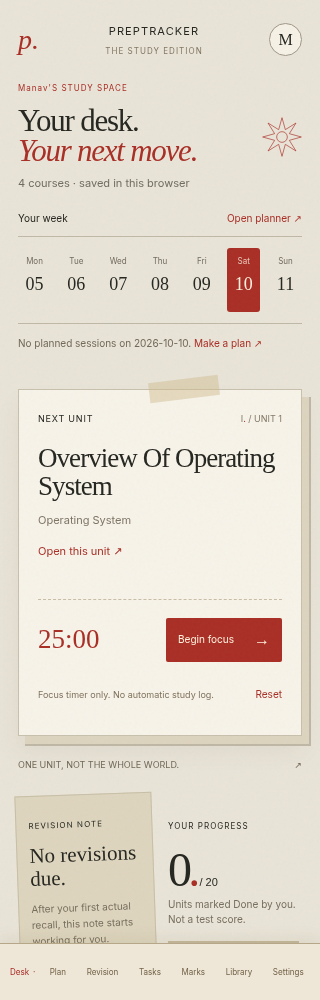
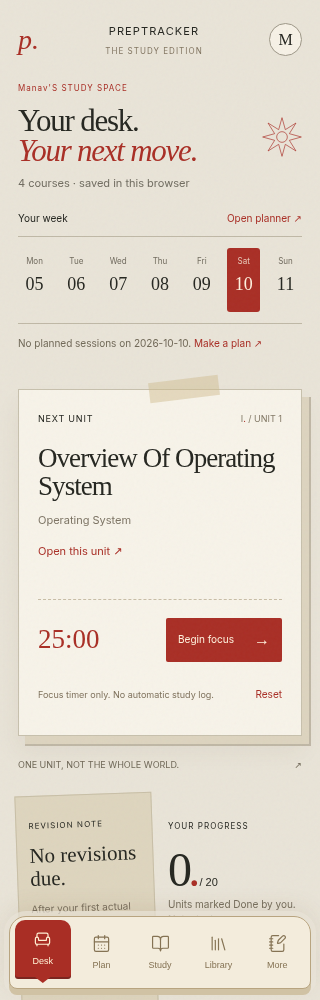
Design mobile navigation as a paper dock and turn-to drawer

Changed region(s): [[0.0, 0.899, 0.9688, 1.0], [0.9688, 0.93, 1.0, 0.961]]

diff --git a/edition-nav.css b/edition-nav.css
@@ -1,4 +1,5 @@
-.edition-nav{max-width:1320px;margin:auto;display:flex;justify-content:space-between;align-items:center;gap:30px;padding:22px 35px;border-bottom:1px solid #bcad90;color:#302c23;background:#e9e4d8}.edition-nav .edition-nav-brand{font:italic 32px Georgia;color:#a92e25;display:flex;align-items:center;gap:18px}.edition-nav-brand>span{font:9px Arial;letter-spacing:.12em;color:#675b45}.edition-nav-brand small{display:block;font-size:7px;letter-spacing:.1em;margin-top:5px;color:#928061}.edition-nav>div{display:flex;align-items:center;gap:23px}.edition-nav>div>a{font-size:10px;color:#746347;min-height:44px;display:flex;align-items:center;gap:4px;white-space:nowrap}.edition-nav>div>a>span{color:transparent}.edition-nav>div>a[aria-current]{color:#a92e25}.edition-nav>div>a[aria-current]>span{color:#a92e25}.edition-nav a:focus-visible{outline:2px solid #a92e25;outline-offset:3px}
-@media(max-width:899px){.edition-nav{padding:0;border:0;max-width:none}.edition-nav .edition-nav-brand{display:none}.edition-nav>div{position:fixed;z-index:50;left:0;right:0;bottom:0;padding:8px 14px max(8px,env(safe-area-inset-bottom));gap:0;justify-content:space-between;border-top:1px solid #b6a789;background:#eee7d8;box-shadow:0 -5px 14px #6a542314;overflow-x:auto}.edition-nav>div>a{padding:0 7px;font-size:9px;min-height:44px;justify-content:center}.edition-nav.setup-nav>div>a{flex:1;font-size:11px}.map-page,.notebook-page,.desk-page,.library-page{padding-bottom:68px}}
-@media(max-width:350px){.edition-nav>div{padding:6px 6px}.edition-nav>div>a{font-size:8px;padding:0 4px}}
-@media print{.edition-nav{display:none!important}}
+.edition-nav{max-width:1320px;margin:auto;display:flex;justify-content:space-between;align-items:center;gap:30px;padding:22px 35px;border-bottom:1px solid #bcad90;color:#302c23;background:#e9e4d8}.edition-nav .edition-nav-brand{font:italic 32px Georgia;color:#a92e25;display:flex;align-items:center;gap:18px}.edition-nav-brand>span{font:9px Arial;letter-spacing:.12em;color:#675b45}.edition-nav-brand small{display:block;font-size:7px;letter-spacing:.1em;margin-top:5px;color:#928061}.edition-nav>div{display:flex;align-items:center;gap:23px}.edition-nav>div>a{font-size:10px;color:#746347;min-height:44px;display:flex;align-items:center;gap:4px;white-space:nowrap}.edition-nav>div>a>span{color:transparent}.edition-nav>div>a[aria-current]{color:#a92e25}.edition-nav>div>a[aria-current]>span{color:#a92e25}.edition-nav a:focus-visible,.edition-mobile-dock a:focus-visible,.edition-mobile-dock button:focus-visible{outline:2px solid #a92e25;outline-offset:3px}.edition-mobile-dock,.edition-drawer-scrim{display:none}
+@media(max-width:899px){.edition-nav{display:none}.edition-mobile-dock{position:fixed;display:flex;z-index:70;left:12px;right:12px;bottom:max(11px,env(safe-area-inset-bottom));padding:8px 7px;background:#f3ecdc;border:1px solid #b8a480;border-radius:17px 17px 8px 8px;box-shadow:0 6px 0 #d0c2a4,0 0 0 5px #e9e4d8b0,0 -6px 25px #6d532720;justify-content:space-around;gap:4px}.edition-mobile-dock>a,.edition-mobile-dock>button{display:flex;align-items:center;justify-content:center;gap:4px;flex-direction:column;min-height:57px;flex:1;color:#857354;font-size:10px;background:none;border:0;padding:5px 2px;border-radius:10px 10px 3px 3px;font-family:Arial;position:relative;text-decoration:none}.edition-mobile-dock>a[aria-current],.edition-mobile-dock>button.active{background:#a92e25;color:#fff0d4;box-shadow:0 2px 0 #7b251f;transform:translateY(-4px)}.edition-mobile-dock>a[aria-current]:after{content:'';position:absolute;width:18px;height:7px;bottom:-6px;left:calc(50% - 9px);background:#a92e25;clip-path:polygon(0 0,100% 0,50% 100%)}.dock-icon{display:flex;align-items:center;position:relative;height:23px}.dock-icon b{position:absolute;right:-7px;bottom:-2px;font:19px Georgia;color:#a92e25;display:none}.edition-mobile-dock>a:not([aria-current]):hover .dock-icon b{display:block}.edition-mobile-dock.setup-dock{max-width:420px;margin:0 auto}.setup-dock>a{font-size:11px}.map-page,.notebook-page,.desk-page,.library-page{padding-bottom:100px}.edition-drawer-scrim{position:fixed;inset:0;background:#352c2080;z-index:65;display:flex;align-items:flex-end;padding:20px 18px 114px;backdrop-filter:blur(3px)}.edition-drawer{width:100%;background:#f1e8d5;border:1px solid #b5a07a;box-shadow:4px 5px 0 #cbbb9a;padding:25px 23px;border-radius:5px;max-height:70vh;overflow:auto}.edition-drawer header{display:flex;align-items:flex-start;justify-content:space-between;gap:12px;border-bottom:1px solid #bba680;padding-bottom:18px}.edition-drawer header span{font-size:8px;letter-spacing:.1em;color:#917447}.edition-drawer h2{font:32px Georgia;letter-spacing:-.03em;margin-top:12px}.edition-drawer h2 i{color:#a92e25}.edition-drawer header button{background:none;color:#a92e25;width:44px;height:44px;display:grid;place-items:center;border:1px solid #bda888;border-radius:50%;flex-shrink:0}.edition-drawer>div{display:grid;grid-template-columns:1fr 1fr;gap:12px;margin:22px 0}.edition-drawer>div>a{min-height:85px;background:#e3d4b6;display:grid;grid-template-columns:25px 1fr;align-items:center;gap:8px;color:#6c5636;border:1px solid #bba582;padding:14px;font:18px Georgia}.edition-drawer>div>a>small{grid-column:2;font-size:12px;color:#a92e25}.edition-drawer>div>a[aria-current]{background:#dbc2aa;border-color:#a92e25}.edition-drawer>p{font:italic 13px Georgia;color:#8c7049}.edition-drawer a:focus-visible,.edition-drawer button:focus-visible{outline:2px solid #a92e25;outline-offset:3px}}
+@media(max-width:350px){.edition-mobile-dock{left:9px;right:9px;padding:7px 5px;gap:3px}.edition-mobile-dock>a,.edition-mobile-dock>button{font-size:9px}.edition-drawer{padding:22px 18px}.edition-drawer>div>a{padding:12px;font-size:17px}}
+@media(prefers-reduced-motion:reduce){.edition-mobile-dock *{transition:none!important}}
+@media print{.edition-nav,.edition-mobile-dock,.edition-drawer-scrim{display:none!important}}

diff --git a/components/EditionNav.tsx b/components/EditionNav.tsx
@@ -1,2 +1,2 @@
-import React from 'react';import {Link,useLocation} from 'react-router-dom';import '../edition-nav.css';
-export default function EditionNav({setup=false}:{setup?:boolean}){const location=useLocation();const items=setup?[['Start','/landing'],['Library','/directory'],['Setup','/onboarding']]:[['Desk','/'],['Plan','/planner'],['Revision','/study'],['Tasks','/tasks'],['Marks','/calculator'],['Library','/directory'],['Settings','/settings']];return <nav className={`edition-nav ${setup?'setup-nav':''}`} aria-label={setup?'Setup navigation':'Main navigation'}><Link className="edition-nav-brand" to={setup?'/landing':'/'}>p.<span>PREPTRACKER<small>THE STUDY EDITION</small></span></Link><div>{items.map(([name,to])=><Link key={to} to={to} aria-current={location.pathname===to?'page':undefined}>{name}<span>·</span></Link>)}</div></nav>}
+import React,{useState} from 'react';import {Link,useLocation} from 'react-router-dom';import {Armchair,CalendarDays,BookOpen,Library,SlidersHorizontal,Flag,Compass,Map,NotebookPen,ListTodo,Calculator,Link as LinkIcon,X} from 'lucide-react';import '../edition-nav.css';
+export default function EditionNav({setup=false}:{setup?:boolean}){const location=useLocation(),[more,setMore]=useState(false);const items=setup?[['Start','/landing'],['Library','/directory'],['Setup','/onboarding']]:[['Desk','/'],['Plan','/planner'],['Revision','/study'],['Tasks','/tasks'],['Marks','/calculator'],['Library','/directory'],['Links','/resources'],['Settings','/settings']];const dock=setup?[{label:'Start',to:'/landing',icon:Flag},{label:'Library',to:'/directory',icon:Compass},{label:'Setup',to:'/onboarding',icon:Map}]:[{label:'Desk',to:'/',icon:Armchair},{label:'Plan',to:'/planner',icon:CalendarDays},{label:'Study',to:'/study',icon:BookOpen},{label:'Library',to:'/directory',icon:Library}];const extras=[{label:'Tasks',to:'/tasks',icon:ListTodo},{label:'Marks',to:'/calculator',icon:Calculator},{label:'Links',to:'/resources',icon:LinkIcon},{label:'Settings',to:'/settings',icon:SlidersHorizontal}];return <><nav className="edition-nav" aria-label="PC menubar"><Link className="edition-nav-brand" to={setup?'/landing':'/'}>p.<span>PREPTRACKER<small>THE STUDY EDITION</small></span></Link><div>{items.map(([name,to])=><Link key={to} to={to} aria-current={location.pathname===to?'page':undefined}>{name}<span>·</span></Link>)}</div></nav><nav className={`edition-mobile-dock ${setup?'setup-dock':''}`} aria-label="Mobile navigation">{dock.map(x=><Link key={x.to} to={x.to} aria-current={!more&&location.pathname===x.to?'page':undefined} onClick={()=>setMore(false)}><span className="dock-icon"><x.icon size={19} strokeWidth={1.5}/><b>·</b></span><span>{x.label}</span></Link>)}{!setup&&<button aria-label="More destinations" aria-expanded={more} aria-controls="edition-more" className={more||extras.some(x=>x.to===location.pathname)?'dock-more active':'dock-more'} onClick={()=>setMore(!more)}><span className="dock-icon"><NotebookPen size={19} strokeWidth={1.5}/><b>·</b></span><span>More</span></button>}</nav>{more&&<div className="edition-drawer-scrim" onClick={()=>setMore(false)}><section className="edition-drawer" role="dialog" aria-modal="true" aria-labelledby="edition-drawer-title" id="edition-more" onClick={e=>e.stopPropagation()} onKeyDown={e=>{if(e.key==='Escape')setMore(false);if(e.key==='Tab'){const els=Array.from(e.currentTarget.querySelectorAll<HTMLElement>('a,button'));const first=els[0],last=els[els.length-1];if(e.shiftKey&&document.activeElement===first){e.preventDefault();last.focus();}else if(!e.shiftKey&&document.activeElement===last){e.preventDefault();first.focus();}}}}><header><div><span>OTHER PAGES ON YOUR DESK</span><h2 id="edition-drawer-title">Turn to<i>...</i></h2></div><button autoFocus aria-label="Close destinations" onClick={()=>setMore(false)}><X size={20}/></button></header><div>{extras.map((x,i)=><Link key={x.to} to={x.to} aria-current={!more&&location.pathname===x.to?'page':undefined} onClick={()=>setMore(false)}><x.icon size={20} strokeWidth={1.5}/><span>{x.label}</span><small>{['I.','II.','III.','IV.'][i]}</small></Link>)}</div><p>Your notes stay here. Pick the page you need.</p></section></div>}</>}
